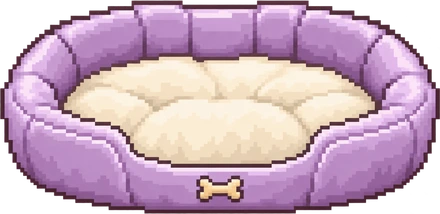
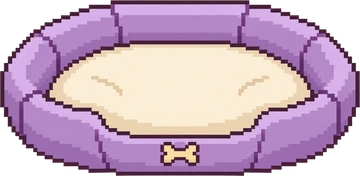
simplify daisy's toys and build a lakeside park landscape

diff --git a/daisy.html b/daisy.html
@@ -13,7 +13,7 @@
 <link rel="stylesheet" href="https://fonts.googleapis.com/css2?family=Fraunces:opsz,wght@9..144,500;9..144,700&amp;family=Nunito+Sans:wght@400;600;700&amp;family=IBM+Plex+Mono:wght@500;600&amp;display=swap" />
 <link rel="stylesheet" href="assets/css/base.css?v=12" />
 <link rel="stylesheet" href="assets/css/pixel-companions.css?v=7" />
-<link rel="stylesheet" href="assets/css/daisy-park.css?v=4" />
+<link rel="stylesheet" href="assets/css/daisy-park.css?v=5" />
 <link rel="stylesheet" href="assets/css/seasonal-theme.css?v=1" />
 <script src="assets/js/seasonal-theme.js?v=1"></script>
 </head>
@@ -22,12 +22,12 @@
   <header><h1>daisy’s park 🌼</h1></header>
   <section class="park-layout" aria-label="daisy’s park and toys">
     <div id="daisy-park" class="daisy-park" aria-label="daisy’s own play area">
-      <button id="daisy-lake" class="daisy-lake" aria-label="let daisy swim in the lake"><img src="assets/images/optimized/daisy-lake.webp?v=1" alt="a garden pond with pebbles, lilies, and reeds" draggable="false" /></button>
-      <button id="daisy-bed" class="daisy-bed" aria-label="let daisy rest in her bed"><img src="assets/images/optimized/daisy-bed.webp?v=1" alt="a cushioned dog bed with raised sides and a bone badge" draggable="false" /></button>
+      <button id="daisy-lake" class="daisy-lake" aria-label="let daisy swim in the lake"></button>
+      <button id="daisy-bed" class="daisy-bed" aria-label="let daisy rest in her bed"><img src="assets/images/optimized/daisy-bed.webp?v=2" alt="a cushioned dog bed with raised sides and a bone badge" draggable="false" /></button>
     </div>
     <div class="park-toys" role="group" aria-label="daisy’s toys">
-      <button id="lake-option" type="button"><img src="assets/images/optimized/daisy-lake.webp?v=1" alt="" draggable="false" />lake</button>
-      <button id="bed-option" type="button"><img src="assets/images/optimized/daisy-bed.webp?v=1" alt="" draggable="false" />doggy bed</button>
+      <button id="lake-option" type="button"><img src="assets/images/daisy-lake.svg?v=4" alt="" draggable="false" />lake</button>
+      <button id="bed-option" type="button"><img src="assets/images/optimized/daisy-bed.webp?v=2" alt="" draggable="false" />doggy bed</button>
     </div>
   </section>
   <p id="daisy-status" class="daisy-status" role="status">a park just for daisy.</p>
@@ -40,7 +40,7 @@
 <script defer src="assets/js/shared-settings.js?v=1"></script>
 <script defer src="assets/js/navigation.js?v=25"></script>
 <script defer src="assets/js/all-time-adjustments.js?v=4"></script>
-<script defer src="assets/js/daisy-park.js?v=1"></script>
+<script defer src="assets/js/daisy-park.js?v=2"></script>
 <script defer src="assets/js/pixel-companions.js?v=16"></script>
 <script defer src="assets/js/daisy-companion.js?v=2"></script>
 </body>

diff --git a/assets/css/daisy-park.css b/assets/css/daisy-park.css
@@ -2,10 +2,10 @@
 .daisy-home { width: min(100% - 28px, 780px); margin: clamp(24px, 6vh, 48px) auto 0; text-align: center; }
 .daisy-home h1 { font: 700 clamp(28px, 6vw, 42px) 'Fraunces', Georgia, serif; margin: 0 0 24px; }
 .park-layout { display: grid; grid-template-columns: minmax(0, 1fr) 100px; gap: 16px; height: 420px; }
-.daisy-park { position: relative; min-width: 0; overflow: hidden; border: 8px solid #afbea2; border-radius: 24px; background: #c4d4aa url('../images/daisy-park.svg?v=3') center / 100% 100% no-repeat; image-rendering: auto; box-shadow: inset 0 0 0 2px #f5f4d6a8, 0 5px 0 #819779, 0 12px 24px #63764024; }
+.daisy-park { position: relative; min-width: 0; overflow: hidden; border: 8px solid #afbea2; border-radius: 24px; background: #c4d4aa url('../images/optimized/daisy-landscape.webp?v=1') center / 100% 100% no-repeat; image-rendering: auto; box-shadow: inset 0 0 0 2px #f5f4d6a8, 0 5px 0 #819779, 0 12px 24px #63764024; }
 .daisy-lake, .daisy-bed { position: absolute; padding: 0; border: 0; background: none; cursor: pointer; touch-action: manipulation; }
-.daisy-lake { left: 6%; top: 40%; width: 54%; height: 38%; }
-.daisy-bed { right: 5%; bottom: 9%; width: 34%; height: 27%; }
+.daisy-lake { left: 2%; top: 62%; width: 70%; height: 28%; border-radius: 50%; }
+.daisy-bed { right: 2%; bottom: 8%; width: 25%; height: 20%; }
 .daisy-lake img, .daisy-bed img { width: 100%; height: 100%; display: block; image-rendering: auto; pointer-events: none; }
 .park-toys { display: grid; grid-template-rows: repeat(4, 1fr); gap: 10px; }
 .park-toys button { min-height: 0; padding: 5px; display: flex; flex-direction: column; align-items: center; justify-content: center; gap: 6px; border: 1px solid #b5c7ae; border-radius: 18px; background: #fffdf2c9; color: var(--text); font: inherit; font-size: 14px; cursor: pointer; }

diff --git a/assets/js/daisy-park.js b/assets/js/daisy-park.js
@@ -47,7 +47,8 @@
     placeAt(left, top, submerged = false) {
       const r = this.bounds(), c = this.pet.cat;
       left = clamp(left, r.left, r.left + Math.max(0, r.width - c.offsetWidth));
-      top = clamp(top, r.top, r.top + Math.max(0, r.height - c.offsetHeight));
+      const groundTop = r.top + Math.max(0, r.height * .60 - c.offsetHeight * .7);
+      top = clamp(top, groundTop, r.top + Math.max(0, r.height - c.offsetHeight));
       this.pet.catDrag.x = left;
       this.pet.catDrag.bottom = window.innerHeight - top - c.offsetHeight;
       this.pet.catDrag.render();
